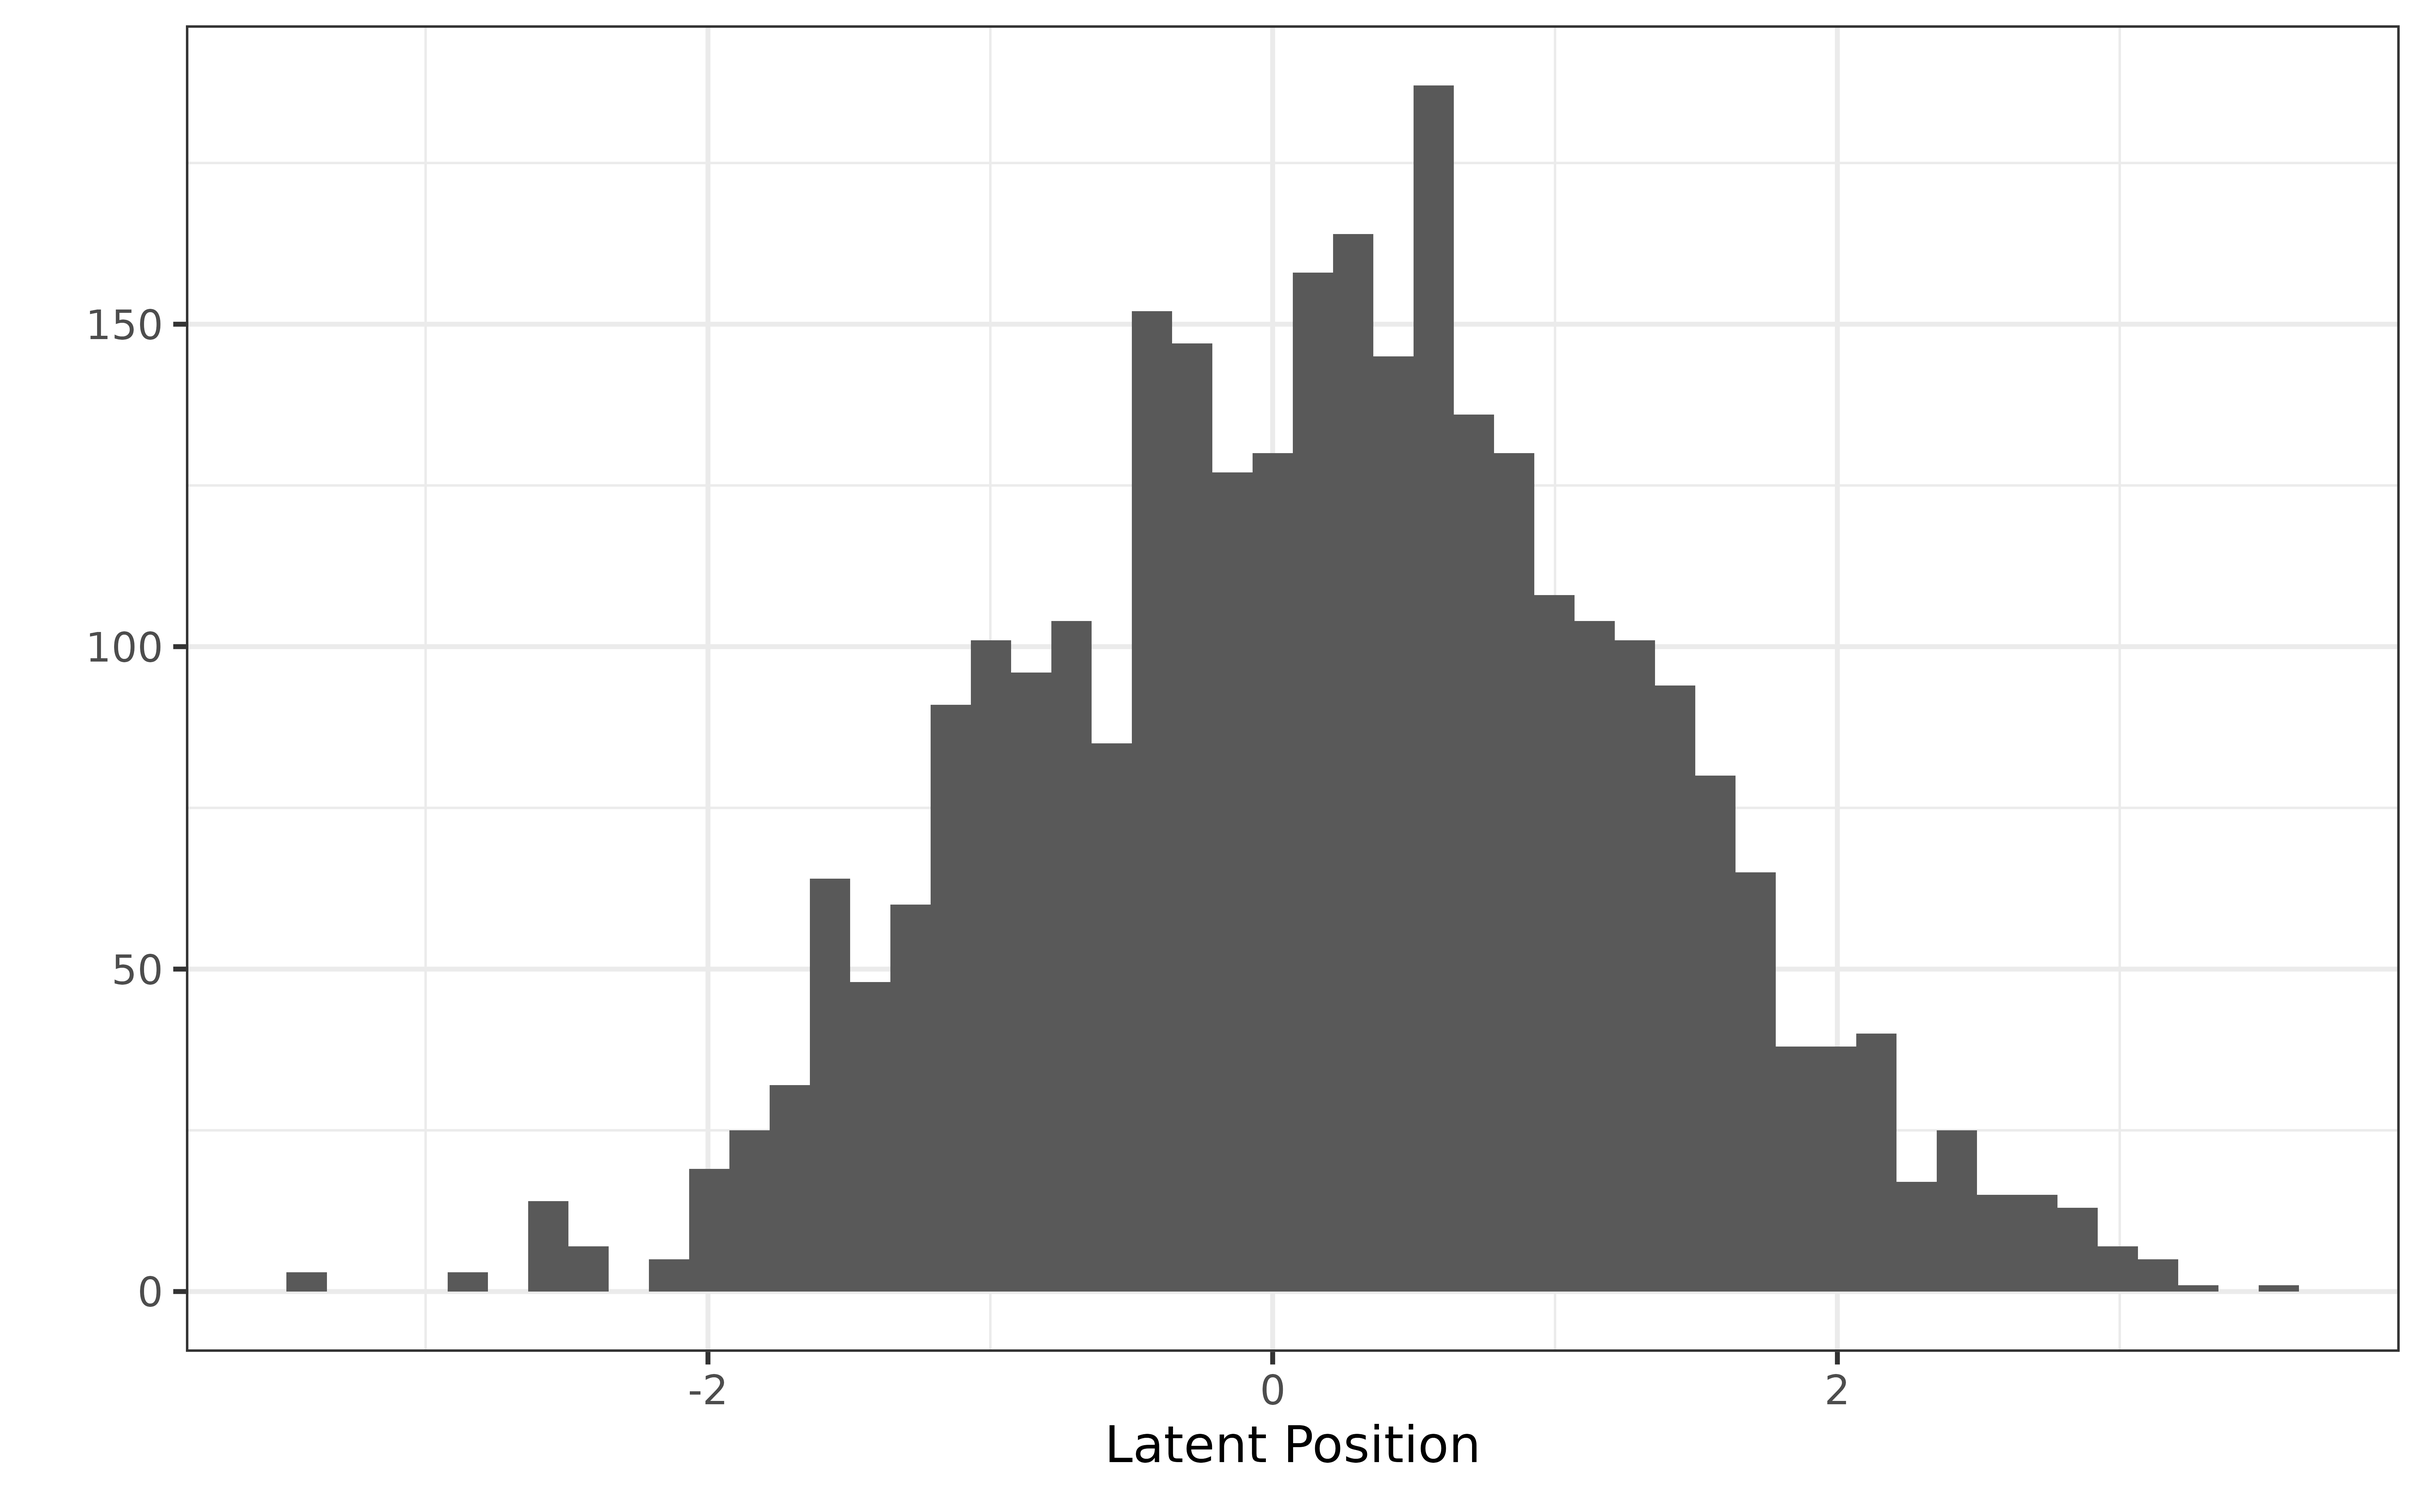
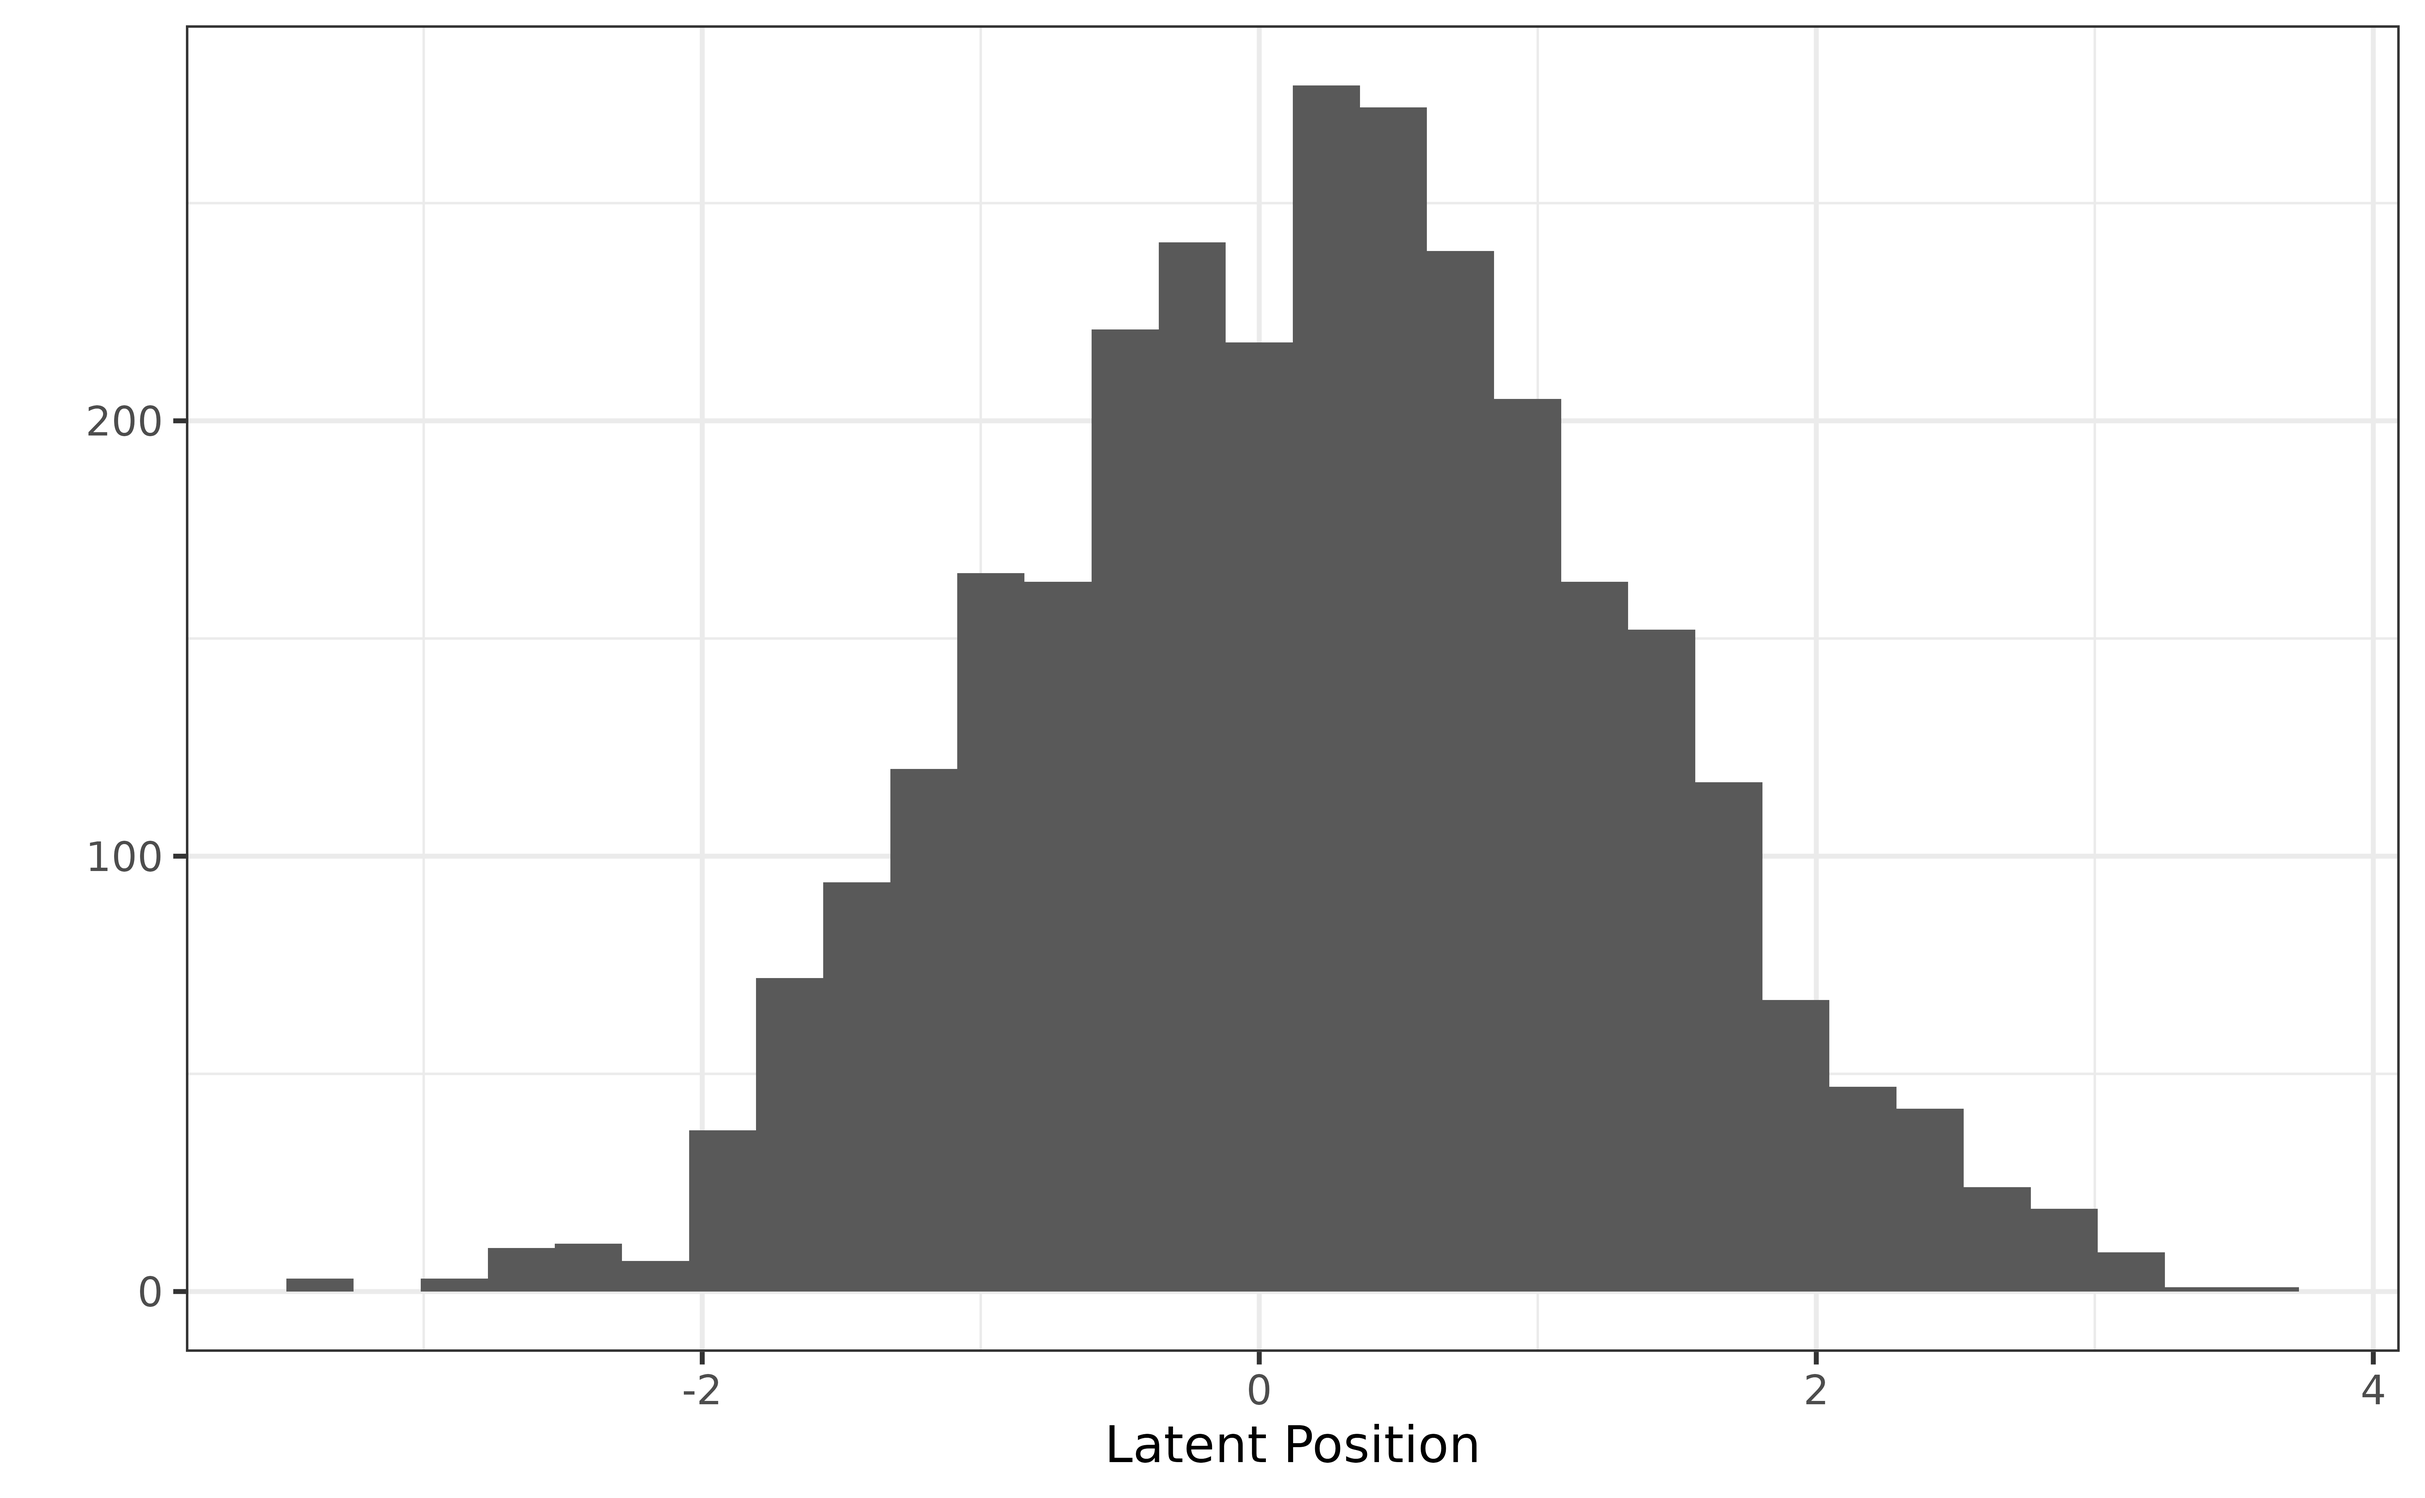
Deploying to gh-pages from @ tkeskinturk/gridsearch@ae6bea131ee5c275d948206133c0539a2c74f9f5 🚀

diff --git a/articles/usage.html b/articles/usage.html
@@ -124,7 +124,7 @@ policy item, let’s call it <code>y_true</code>, that shows a normal
 latent distribution:</p>
 <div class="sourceCode" id="cb2"><pre class="downlit sourceCode r">
 <code class="sourceCode R"><span><span class="fu">ggplot</span><span class="op">(</span><span class="va">d</span><span class="op">$</span><span class="va">data</span>, <span class="fu">aes</span><span class="op">(</span>x <span class="op">=</span> <span class="va">y_true</span><span class="op">)</span><span class="op">)</span> <span class="op">+</span></span>
-<span>  <span class="fu">geom_histogram</span><span class="op">(</span>bins <span class="op">=</span> <span class="fl">50</span><span class="op">)</span> <span class="op">+</span></span>
+<span>  <span class="fu">geom_histogram</span><span class="op">(</span>bins <span class="op">=</span> <span class="fl">30</span><span class="op">)</span> <span class="op">+</span></span>
 <span>  <span class="fu">theme_bw</span><span class="op">(</span><span class="op">)</span> <span class="op">+</span></span>
 <span>  <span class="fu">labs</span><span class="op">(</span>x <span class="op">=</span> <span class="st">"Latent Position"</span>, y <span class="op">=</span> <span class="st">""</span><span class="op">)</span></span></code></pre></div>
 <p><img src="usage_files/figure-html/unnamed-chunk-3-1.png" width="90%" style="display: block; margin: auto;"></p>
@@ -147,7 +147,7 @@ and see their patterns:</p>
 <div class="sourceCode" id="cb4"><pre class="downlit sourceCode r">
 <code class="sourceCode R"><span><span class="va">d</span><span class="op">$</span><span class="va">data</span> <span class="op">|&gt;</span></span>
 <span>  <span class="fu"><a href="https://rdrr.io/r/stats/filter.html" class="external-link">filter</a></span><span class="op">(</span><span class="va">pid</span> <span class="op"><a href="https://rdrr.io/r/base/match.html" class="external-link">%in%</a></span> <span class="fu"><a href="https://rdrr.io/r/base/c.html" class="external-link">c</a></span><span class="op">(</span><span class="fu"><a href="https://rdrr.io/r/base/sample.html" class="external-link">sample</a></span><span class="op">(</span><span class="fl">1</span><span class="op">:</span><span class="fl">1000</span>, size <span class="op">=</span> <span class="fl">9</span><span class="op">)</span><span class="op">)</span><span class="op">)</span> <span class="op">|&gt;</span></span>
-<span>  <span class="fu">ggplot</span><span class="op">(</span><span class="fu">aes</span><span class="op">(</span>x <span class="op">=</span> <span class="va">t</span>, y <span class="op">=</span> <span class="va">y_true</span>, group <span class="op">=</span> <span class="fl">1</span><span class="op">)</span><span class="op">)</span> <span class="op">+</span></span>
+<span>  <span class="fu">ggplot</span><span class="op">(</span><span class="fu">aes</span><span class="op">(</span>x <span class="op">=</span> <span class="fu"><a href="https://rdrr.io/r/base/factor.html" class="external-link">factor</a></span><span class="op">(</span><span class="va">t</span><span class="op">)</span>, y <span class="op">=</span> <span class="va">y_true</span>, group <span class="op">=</span> <span class="fl">1</span><span class="op">)</span><span class="op">)</span> <span class="op">+</span></span>
 <span>  <span class="fu">geom_line</span><span class="op">(</span><span class="op">)</span> <span class="op">+</span></span>
 <span>  <span class="fu">facet_wrap</span><span class="op">(</span> <span class="op">~</span> <span class="va">pid</span><span class="op">)</span> <span class="op">+</span></span>
 <span>  <span class="fu">theme_bw</span><span class="op">(</span><span class="op">)</span></span></code></pre></div>
@@ -265,15 +265,9 @@ observed data generation process.</li>
 <span>  pname <span class="op">=</span> <span class="st">'pid'</span>, <span class="co">## panel identifier</span></span>
 <span>  steps <span class="op">=</span> <span class="fl">1</span>, <span class="co">## the number of simulated datasets per cell</span></span>
 <span>  reliability <span class="op">=</span> <span class="fl">0.8</span>, <span class="co">## assumed reliability score</span></span>
+<span>  workers <span class="op">=</span> <span class="fl">4</span></span>
 <span><span class="op">)</span></span>
 <span><span class="co">#&gt; This function drops missing values. Tread carefully.</span></span>
-<span><span class="co">#&gt; Warning in checkNumberOfLocalWorkers(workers): Careful, you are setting up 8</span></span>
-<span><span class="co">#&gt; localhost parallel workers with only 4 CPU cores available for this R process</span></span>
-<span><span class="co">#&gt; (per 'system'), which could result in a 200% load. The soft limit is set to</span></span>
-<span><span class="co">#&gt; 100%. Overusing the CPUs has negative impact on the current R process, but also</span></span>
-<span><span class="co">#&gt; on all other processes of yours and others running on the same machine. See</span></span>
-<span><span class="co">#&gt; help("parallelly.options", package = "parallelly") for how to override the soft</span></span>
-<span><span class="co">#&gt; and hard limits</span></span>
 <span><span class="co">#&gt; </span></span>
 <span><span class="co">#&gt;  We now start the calculations. There will be 3 steps.</span></span>
 <span><span class="co">#&gt; </span></span>
@@ -422,15 +416,9 @@ before.</p>
 <span>  balance_res <span class="op">=</span> <span class="fl">0.5</span>,</span>
 <span>  strength <span class="op">=</span> <span class="fl">1</span>,</span>
 <span>  reliable <span class="op">=</span> <span class="fl">0.8</span>,</span>
-<span>  nrep <span class="op">=</span> <span class="fl">500</span></span>
+<span>  nrep <span class="op">=</span> <span class="fl">500</span>,</span>
+<span>  workers <span class="op">=</span> <span class="fl">4</span></span>
 <span><span class="op">)</span></span>
-<span><span class="co">#&gt; Warning in checkNumberOfLocalWorkers(workers): Careful, you are setting up 8</span></span>
-<span><span class="co">#&gt; localhost parallel workers with only 4 CPU cores available for this R process</span></span>
-<span><span class="co">#&gt; (per 'system'), which could result in a 200% load. The soft limit is set to</span></span>
-<span><span class="co">#&gt; 100%. Overusing the CPUs has negative impact on the current R process, but also</span></span>
-<span><span class="co">#&gt; on all other processes of yours and others running on the same machine. See</span></span>
-<span><span class="co">#&gt; help("parallelly.options", package = "parallelly") for how to override the soft</span></span>
-<span><span class="co">#&gt; and hard limits</span></span>
 <span></span>
 <span><span class="fu"><a href="https://rdrr.io/r/base/print.html" class="external-link">print</a></span><span class="op">(</span><span class="va">sim</span><span class="op">)</span></span>
 <span><span class="co">#&gt; <span style="color: #949494;"># A tibble: 500 × 4</span></span></span>
